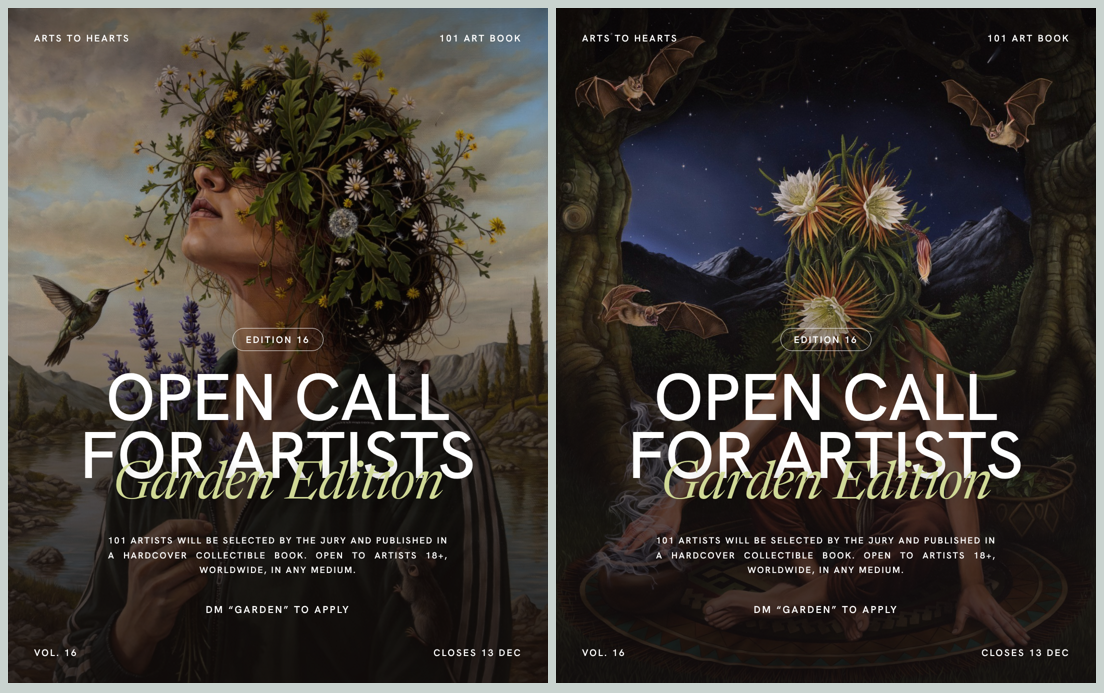
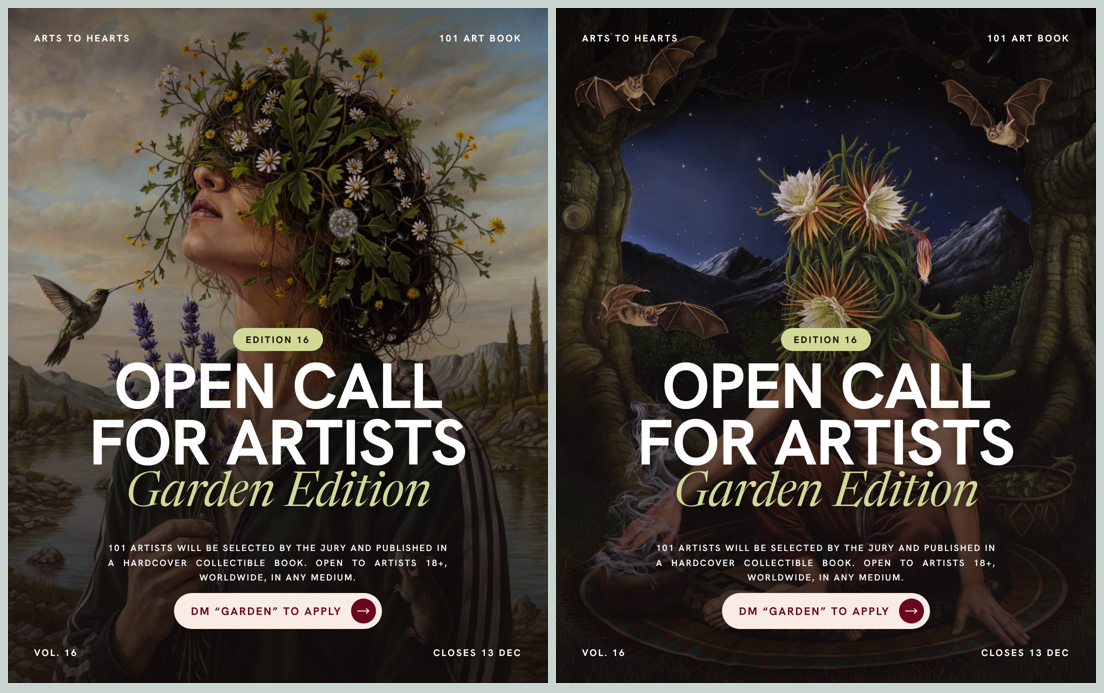
Garden cover: bolder title, filled tag and CTA, readable script line
Claude-Session: https://claude.ai/code/session_01Bc4gkdxg6i3YRuybqzVB3k

diff --git a/design/campaigns/open-calls/cover-magazine.html b/design/campaigns/open-calls/cover-magazine.html
@@ -8,8 +8,8 @@ body{margin:0;background:#C9D3CF;display:flex;gap:40px;padding:40px}
 .s *{margin:0;box-sizing:border-box}
 .a{position:absolute}.c{text-align:center}
 .img{background-size:cover;background-repeat:no-repeat}
-.cn{font-size:19px;font-weight:600;letter-spacing:.16em}
-.title{font-weight:500;letter-spacing:.005em;line-height:.88;text-transform:uppercase}
+.cn{font-size:19px;font-weight:700;letter-spacing:.16em}
+.title{font-weight:700;letter-spacing:.005em;line-height:.88;text-transform:uppercase}
 .scr{font-family:NR,serif;font-style:italic;font-weight:400;letter-spacing:-.01em}
 .para{text-transform:uppercase;font-size:18px;font-weight:600;letter-spacing:.14em;line-height:1.65;text-align:justify;text-align-last:center}
 </style></head><body>
@@ -21,11 +21,11 @@ body{margin:0;background:#C9D3CF;display:flex;gap:40px;padding:40px}
   <div class="a" style="inset:0;background:linear-gradient(180deg,rgba(20,14,12,.35) 0%,rgba(20,14,12,0) 18%,rgba(20,14,12,0) 40%,rgba(20,14,12,.55) 62%,rgba(20,14,12,.72) 100%)"></div>
   <p class="a cn" style="left:52px;top:48px">ARTS TO HEARTS</p>
   <p class="a cn" style="right:52px;top:48px">101 ART BOOK</p>
-  <div class="a" style="left:0;right:0;top:640px;display:flex;justify-content:center"><span class="cn" style="display:inline-flex;align-items:center;height:46px;padding:0 26px;border:1.5px solid rgba(255,255,255,.9);border-radius:999px">EDITION 16</span></div>
-  <p class="a title c" style="left:0;right:0;top:720px;font-size:132px">Open call<br>for artists</p>
-  <p class="a scr c" style="left:0;right:0;top:905px;font-size:104px;color:#D0D996;z-index:2;text-shadow:0 4px 24px rgba(0,0,0,.35)">Garden Edition</p>
-  <p class="a para" style="left:200px;right:200px;top:1050px">101 artists will be selected by the jury and published in a hardcover collectible book. Open to artists 18+, worldwide, in any medium.</p>
-  <p class="a cn c" style="left:0;right:0;top:1190px;font-size:20px">DM “GARDEN” TO APPLY</p>
+  <div class="a" style="left:0;right:0;top:640px;display:flex;justify-content:center"><span class="cn" style="display:inline-flex;align-items:center;height:46px;padding:0 26px;background:#D0D996;color:#14090C;border-radius:999px">EDITION 16</span></div>
+  <p class="a title c" style="left:0;right:0;top:700px;font-size:128px;letter-spacing:-.01em">Open call<br>for artists</p>
+  <p class="a scr c" style="left:0;right:0;top:925px;font-size:96px;color:#D0D996;z-index:2;text-shadow:0 2px 16px rgba(0,0,0,.6)">Garden Edition</p>
+  <p class="a para" style="left:200px;right:200px;top:1065px">101 artists will be selected by the jury and published in a hardcover collectible book. Open to artists 18+, worldwide, in any medium.</p>
+  <div class="a" style="left:0;right:0;top:1170px;display:flex;justify-content:center"><span style="display:inline-flex;align-items:center;gap:18px;height:72px;padding:0 12px 0 34px;border-radius:999px;background:#F9ECE5;color:#6A0620;font-size:22px;font-weight:700;letter-spacing:.12em">DM “GARDEN” TO APPLY<span style="width:50px;height:50px;border-radius:50%;background:#6A0620;color:#F9ECE5;display:inline-flex;align-items:center;justify-content:center"><svg width="26" height="12" viewBox="0 0 46 20"><path d="M2 10h40M33 2l9 8-9 8" fill="none" stroke="currentColor" stroke-width="3.5" stroke-linecap="round" stroke-linejoin="round"/></svg></span></span></div>
   <p class="a cn" style="left:52px;bottom:48px">VOL. 16</p>
   <p class="a cn" style="right:52px;bottom:48px">CLOSES 13 DEC</p>
 </div>
@@ -36,11 +36,11 @@ body{margin:0;background:#C9D3CF;display:flex;gap:40px;padding:40px}
   <div class="a" style="inset:0;background:linear-gradient(180deg,rgba(14,10,12,.4) 0%,rgba(14,10,12,0) 18%,rgba(14,10,12,0) 40%,rgba(14,10,12,.55) 62%,rgba(14,10,12,.78) 100%)"></div>
   <p class="a cn" style="left:52px;top:48px">ARTS TO HEARTS</p>
   <p class="a cn" style="right:52px;top:48px">101 ART BOOK</p>
-  <div class="a" style="left:0;right:0;top:640px;display:flex;justify-content:center"><span class="cn" style="display:inline-flex;align-items:center;height:46px;padding:0 26px;border:1.5px solid rgba(255,255,255,.9);border-radius:999px">EDITION 16</span></div>
-  <p class="a title c" style="left:0;right:0;top:720px;font-size:132px">Open call<br>for artists</p>
-  <p class="a scr c" style="left:0;right:0;top:905px;font-size:104px;color:#D0D996;z-index:2;text-shadow:0 4px 24px rgba(0,0,0,.35)">Garden Edition</p>
-  <p class="a para" style="left:200px;right:200px;top:1050px">101 artists will be selected by the jury and published in a hardcover collectible book. Open to artists 18+, worldwide, in any medium.</p>
-  <p class="a cn c" style="left:0;right:0;top:1190px;font-size:20px">DM “GARDEN” TO APPLY</p>
+  <div class="a" style="left:0;right:0;top:640px;display:flex;justify-content:center"><span class="cn" style="display:inline-flex;align-items:center;height:46px;padding:0 26px;background:#D0D996;color:#14090C;border-radius:999px">EDITION 16</span></div>
+  <p class="a title c" style="left:0;right:0;top:700px;font-size:128px;letter-spacing:-.01em">Open call<br>for artists</p>
+  <p class="a scr c" style="left:0;right:0;top:925px;font-size:96px;color:#D0D996;z-index:2;text-shadow:0 2px 16px rgba(0,0,0,.6)">Garden Edition</p>
+  <p class="a para" style="left:200px;right:200px;top:1065px">101 artists will be selected by the jury and published in a hardcover collectible book. Open to artists 18+, worldwide, in any medium.</p>
+  <div class="a" style="left:0;right:0;top:1170px;display:flex;justify-content:center"><span style="display:inline-flex;align-items:center;gap:18px;height:72px;padding:0 12px 0 34px;border-radius:999px;background:#F9ECE5;color:#6A0620;font-size:22px;font-weight:700;letter-spacing:.12em">DM “GARDEN” TO APPLY<span style="width:50px;height:50px;border-radius:50%;background:#6A0620;color:#F9ECE5;display:inline-flex;align-items:center;justify-content:center"><svg width="26" height="12" viewBox="0 0 46 20"><path d="M2 10h40M33 2l9 8-9 8" fill="none" stroke="currentColor" stroke-width="3.5" stroke-linecap="round" stroke-linejoin="round"/></svg></span></span></div>
   <p class="a cn" style="left:52px;bottom:48px">VOL. 16</p>
   <p class="a cn" style="right:52px;bottom:48px">CLOSES 13 DEC</p>
 </div>
